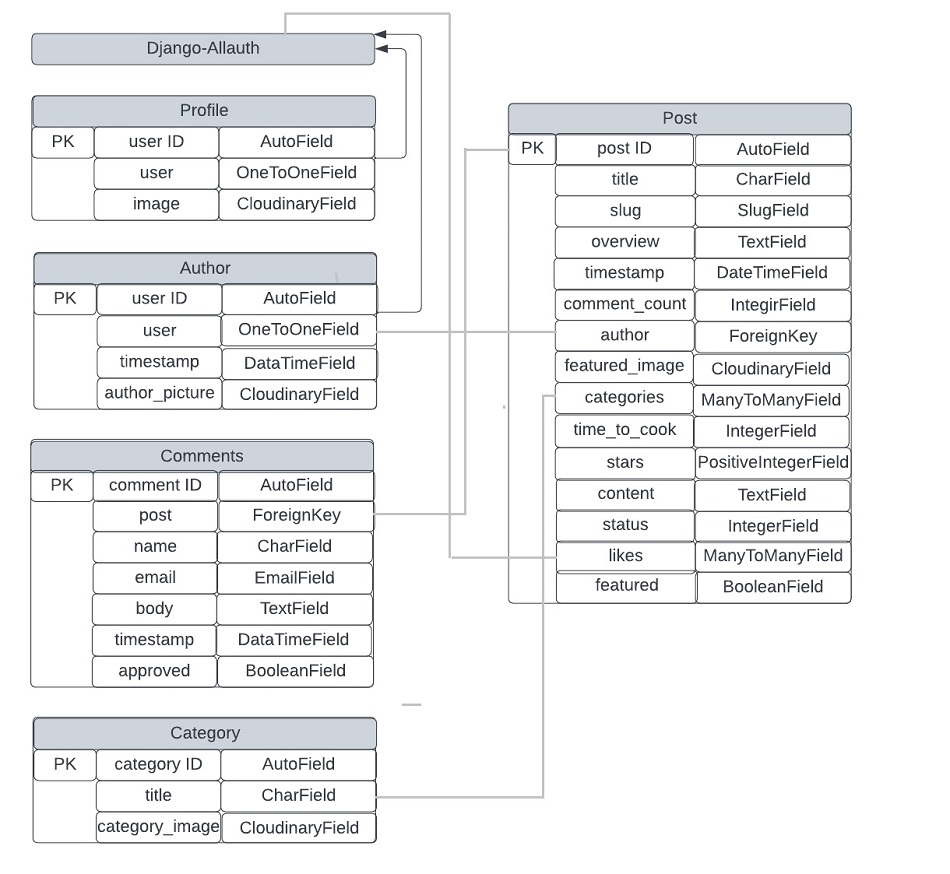
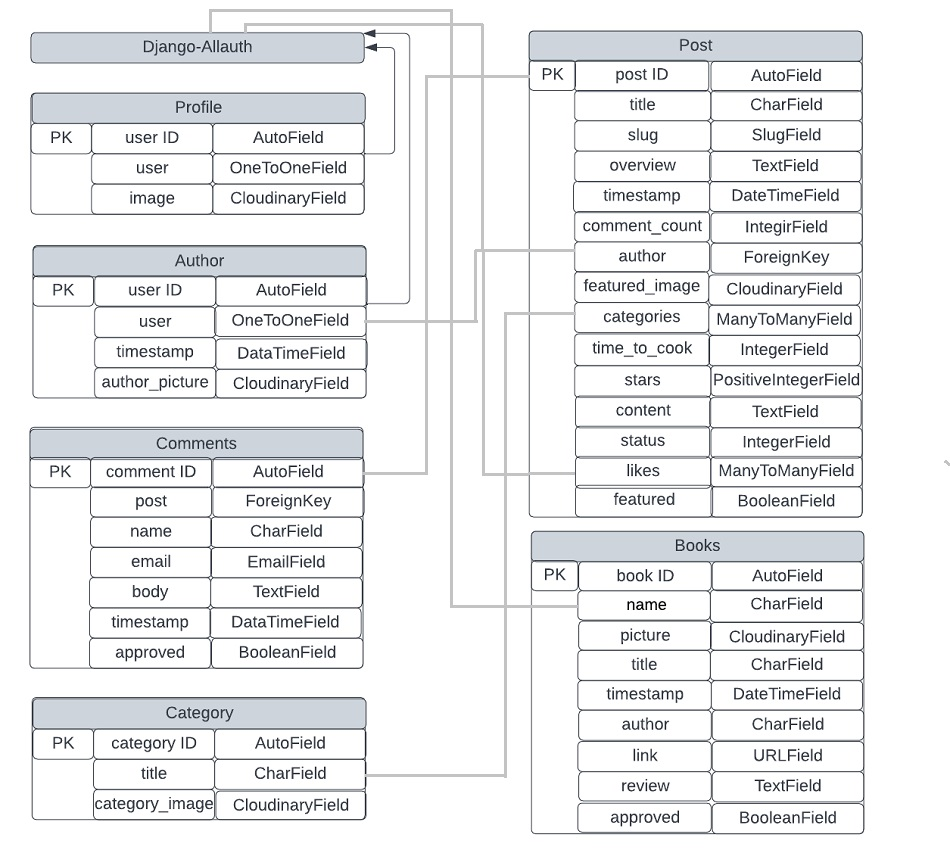
Add content, images, wireframes and test results related to the books app

Changed region(s): [[0.0305, 0.0, 0.9158, 1.0]]

diff --git a/README.md b/README.md
@@ -3,8 +3,9 @@
 Project milestone 4 for Code Institute Full-stack development program: Django Framework.
 This project is a Full Stack website built using the Django framework. Tasty Blog is a recipe
 book where users can look or search for a recipe to prepare. When the user is logged in they can
-also like/unlike a post, comment on a post and upload or update their user image and details. As
-a user admin, they can post new recipes, approve comments and add new authors.
+also like/unlike a post, comment on a post, share their favorite cookbooks by adding a post on the 
+Books Page and upload or update their user image and details. As a user admin, they can post new 
+recipes, approve comments and add new authors.
 
 [Live Project Here](https://tasty-blog-portfolio-project-4.herokuapp.com/)
 
@@ -37,6 +38,8 @@ README Table Content
     - [Contact Page](#contact-page)
     - [Categories Page](#categories-page)
     - [Categories Results](#categories-results)
+    - [Books Page](#books-page)
+    - [Add/Edit Books Page](#addedit-books-page)
     - [Search Box](#search-box)
     - [Search Results Page](#search-results-page)
     - [Search Results - Input Empty](#search-results---input-empty)
@@ -62,6 +65,10 @@ README Table Content
     - [Edit Comment](#edit-comment)
     - [Email Sent - Success](#email-sent---success)
     - [Email Sent - Failed](#email-sent---failed)
+    - [Add Book](#add-book)
+    - [Edit Book](#edit-book)
+    - [Delete Book 1](#delete-book-1)
+    - [Delete Book 2](#delete-book-2)
     - [Empty Search](#empty-search)
     - [No Search Found](#no-search-found)
   - [Admin Panel/Superuser](#admin-panelsuperuser)
@@ -100,7 +107,10 @@ README Table Content
 2. Comment on recipes and give my opinion about the posts.
 3. Delete my previous comments.
 4. Manage my profile by updating my details and user image.
-5. Logout from the website.
+5. Share my favorites cookbooks by posting them on the Books Page.
+6. Edit my favorite cookbook posted previously.
+7. Delete my favorite cookbook posted previously
+8. Logout from the website.
 
 * As a website superuser, I can:
 
@@ -109,7 +119,9 @@ README Table Content
 3. Create a new user, recipes, author and categories.
 4. Delete user, recipes, author, categories and comments.
 5. Approve user's comments.
-6. Change the website permissions for a user.
+6. Edit user's favorite cookbook posted previously
+7. Delete user's favorite cookbook posted previously
+8. Change the website permissions for a user.
 
 ### Agile Methodology
 
@@ -236,6 +248,19 @@ using the contact form available on this page.
 ![Categories Results Page](./assets/readme/features/tasty_blog_categories_results_page.jpg)
 
 * On the Categories Results Page, users can access the post filtered by the chosen category.
+  
+### Books Page
+
+![Books Page](./assets/readme/features/tasty_blog_books_page.jpg)
+
+*On this page, registered users can see favorite books posted by other users and if they had already
+ published a post they are allowed to edit or delete their own posts.
+
+### Add/Edit Books Page
+
+![Add/Edit Book Page](./assets/readme/features/tasty_blog_add_book_page.jpg)
+
+On this page, registered users can fill out the form to add or edit a post with their favorite cookbooks.
 
 ### Search Box
 
@@ -390,8 +415,7 @@ Delete and Edit buttons at the bottom of comments.<br>
 
 ![Edit Comment](./assets/readme/features/interactive_messages/tasty_blog_user_interaction_comment_edit.jpg)
 
-* After pressing the Update, users will see a message on the 
-  top of the page, "The comment was successfully updated".<br>
+* After pressing the Update, users will see a message on the top of the page, "The comment was successfully updated".<br>
 
 ### Email Sent - Success
 
@@ -406,6 +430,32 @@ Delete and Edit buttons at the bottom of comments.<br>
 
 * If the email was not submitted successfully, users will see the message, "Sorry, something went wrong! 
   Try to submit the email again".<br>
+
+### Add Book
+
+![Add Book](./assets/readme/features/interactive_messages/tasty_blog_user_interaction_add_book.jpg)  
+
+*When users are logged in to the website they can publish a post with a favorite cookbook and after they submit the 
+post they will see a message at the top of the page saying "Your post was sent successfully and is awaiting approval".<br>
+
+### Edit Book
+
+![Edit Book](./assets/readme/features/interactive_messages/tasty_blog_user_interaction_book_edit.jpg)  
+*When users are logged in to the website they can edit their own posts published previously and they will see the message 
+"The post was successfully updated" after pressing the Submit button.<br>
+
+### Delete Book 1 
+
+![Delete Book 1](./assets/readme/features/interactive_messages/tasty_blog_user_interaction_book_delete_2.jpg)
+When users are logged in to the website and they wish to delete their posts, they can press the button Delete and a 
+Bootstrap box model will pop up with the message "Are you sure you want to delete your post?".<br>  
+
+### Delete Book 2
+
+![Delete Book 2](./assets/readme/features/interactive_messages/tasty_blog_user_interaction_book_delete.jpg)  
+
+* After pressing the Delete button again inside the Bootstrap box model they will see a message on the 
+  top of the page, "Your post was deleted successfully".<br>
 
 ### Empty Search
 
@@ -574,6 +624,7 @@ to copy the URL
 ### Content
 
 * All food recipies were taken from [BBC Goodfood](https://www.bbcgoodfood.com/recipes)
+* The books content and images were taken from[Eason](https://www.easons.com/)
 * The images were taken from [Unsplash](https://unsplash.com/)
 * The Tasty Blog logos and favicon are my own designed and build
 

diff --git a/TESTING.md b/TESTING.md
@@ -14,13 +14,17 @@ were entered into the online checker and no errors were found in any of the cust
 * [models.py](./assets/readme/test/pep8/posts_pep8_models.jpg)
 * [apps.py](./assets/readme/test/pep8/blog_pep8_apps.jpg)
 * [forms.py](./assets/readme/test/pep8/blog_pep8_forms.jpg)
+* [signals.py](./assets/readme/test/pep8/blog_pep8_signals.jpg)
 * [urls.py](./assets/readme/test/pep8/blog_pep8_urls.jpg)
 * [views.py](./assets/readme/test/pep8/blog_pep8_views.jpg)
 * [context_processors.py](./assets/readme/test/pep8/blog_pep8_context_processor.jpg)
 
-#### Tasty Blog - Users
-* [apps.py](./assets/readme/test/pep8/users_pep8_apps.jpg)
-* [signals.py](./assets/readme/test/pep8/users_pep8_signals.jpg)
+#### Tasty Blog - Books
+* [admin.py](./assets/readme/test/pep8/books_pep8_admin.jpg)
+* [forms.py](./assets/readme/test/pep8/books_pep8_forms.jpg)
+* [models.py](./assets/readme/test/pep8/books_pep8_models.jpg)
+* [urls.py](./assets/readme/test/pep8/books_pep8_urls.jpg)
+* [views.py](./assets/readme/test/pep8/books_pep8_views.jpg)
 
 #### Tasty Blog - Tastyblog
 * [asgi.py](./assets/readme/test/pep8/tastyblog_pep8_asgi.jpg)
@@ -61,7 +65,6 @@ Lighthouse was used to test Performance, Best Practices, Accessibility and SEO o
 ![Console Result](./assets/readme/test/tasty_blog_console_results.jpg).
 * The browser console is clean, no errors are  showing.
 
-
 ## Manual Testing
 ### Frontend
 * The Signup, Login and Logout system has no issues and is working accordingly. It shows the right 
@@ -91,11 +94,13 @@ Lighthouse was used to test Performance, Best Practices, Accessibility and SEO o
 * The functionality to update a message, previously sent by the user or by the superuser, is 
   working without issues. A new page is open, to update the comment when the button edit is 
   pressed. Once the action is complete, the interactive message is displayed at the top of the page. 
+* On the Books Page, the CRUD functionality is working without issues. Logged in users can create a new 
+  post such as update or delete their own posts, also any post can be updated or deleted on this page by the Superuser.  
 
 ### Backend/Admin Panel
 * I have tested the Admin Panel repeatedly since the start of the project development. All the models are working without issues.  
   I have created, deleted, and updated data in all models without errors. The models have the behavior expected for what they were built for.
-* Whenever a user comments on a post the Superuser has to approve it before it will be displayed on the website. This functionality is 
+* Whenever a user comments on a post or submits a book post the Superuser has to approve it before it will be displayed on the website. This functionality is 
   working without issues.
 * When the author is posting a new recipe all the required fields have to be filled otherwise the author can't submit the post to the database.
 

diff --git a/WIREFRAMES.md b/WIREFRAMES.md
@@ -28,3 +28,7 @@ Back to the [README](README.md)
 ![Profile Page](./assets/readme/wireframes/profile_page.png)
 
 ![Edit Comments Page](./assets/readme/wireframes/edit_comments.png)
+
+![Books Page](./assets/readme/wireframes/books_page.png)
+
+![Add/Edit Books Page](./assets/readme/wireframes/add_edit_books_page.png)
